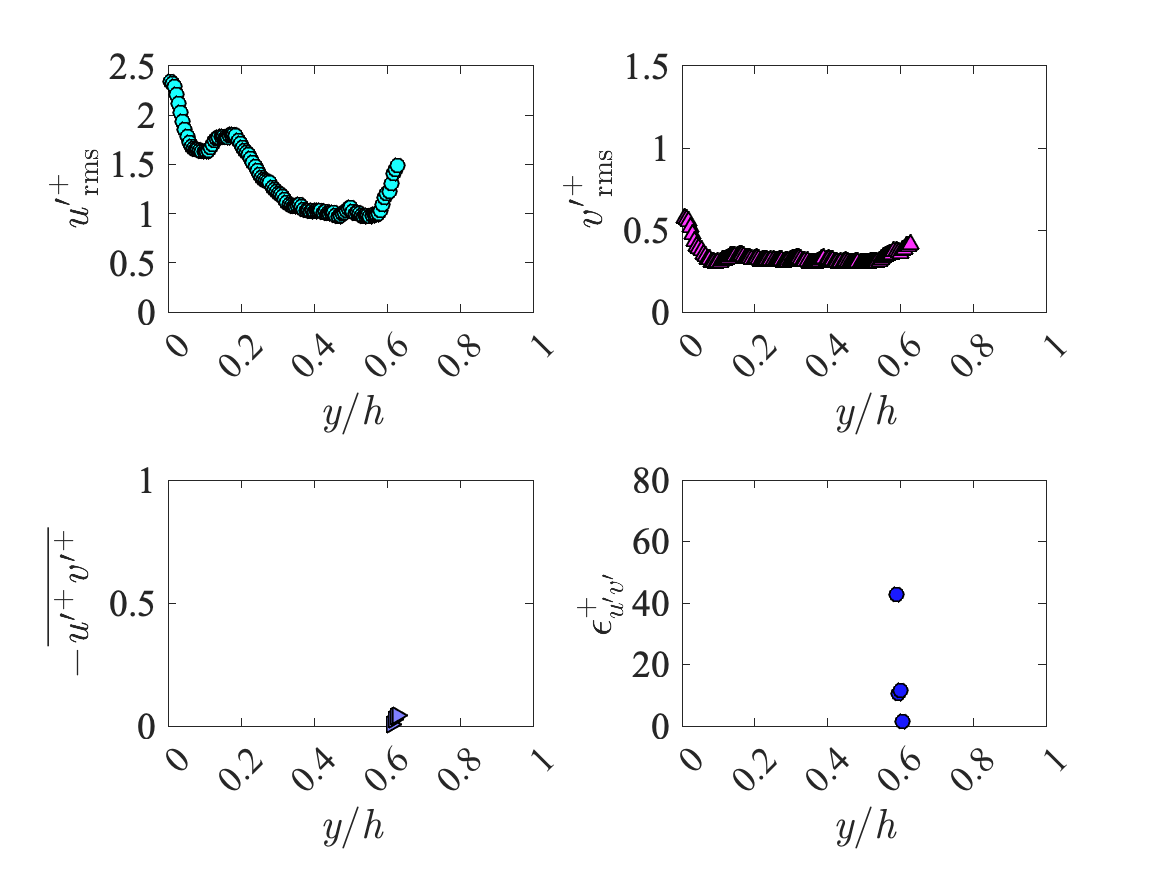
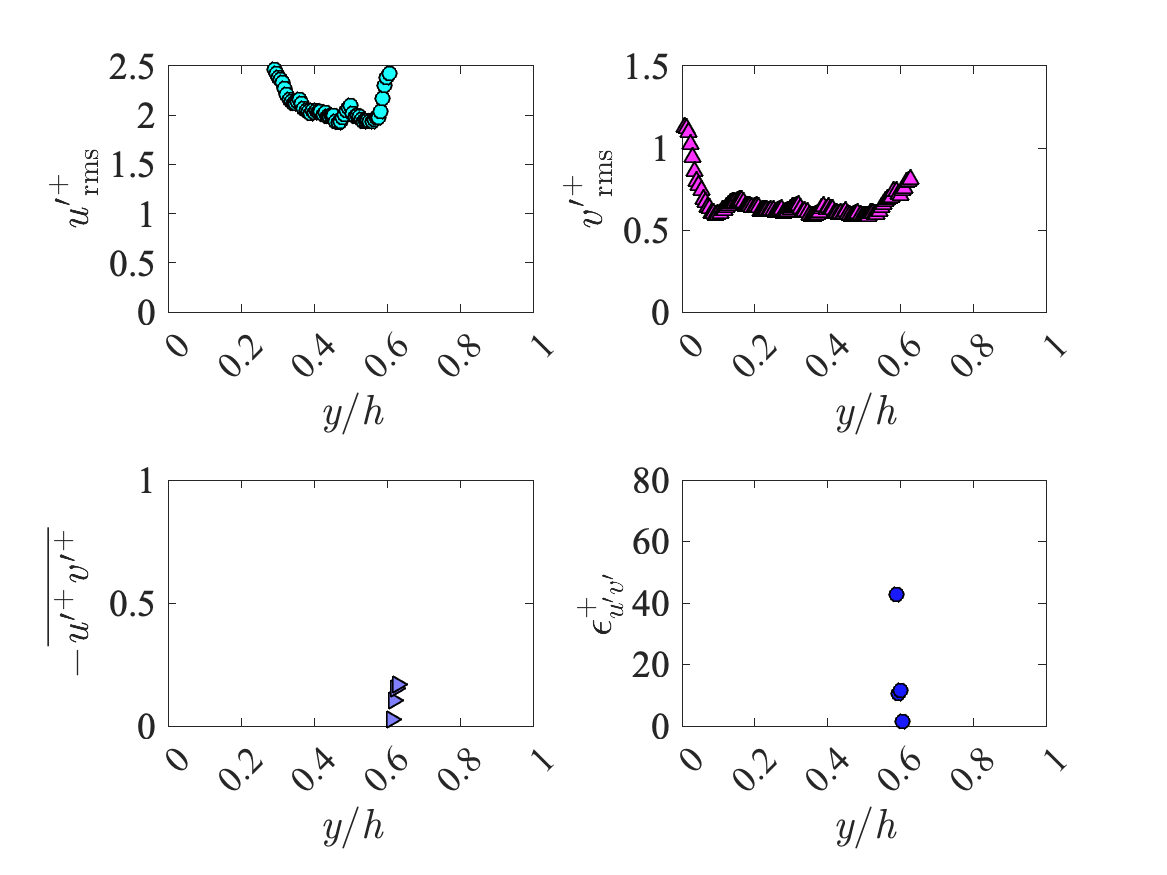
solutionyouni

diff --git a/itoi/PIV_assignment/solution_algo.m b/itoi/PIV_assignment/solution_algo.m
@@ -11,8 +11,10 @@ tic;                                % start of measuring the elapsed time
 numfiles = 500;                     % total number of file                      
 m        = 127;                      % number of x direction
 n        = 108;                      % number of y direction
-ub       = 0.335;                   % bulk velocity [m/s]
+ub       = 0.335;                    % bulk velocity [m/s]
+% 補正前の壁面せん断応力                  
 % tauw     = 0.23;
+
 % excelから算出した補正後の壁面せん断応力
 tauw     = 0.095331852;                   % wall shear stress [N/m^2]
 ro       = 997.05;                  % density [kg/m^3]
@@ -132,7 +134,7 @@ for k =0:numfiles-1
 	elseif k<10000 
 	 file_name = sprintf('velocity_32px.6vayg6cd.00%d.dat',k);
     end
-    myfilename = sprintf('/Volumes/HDCZ-UT/itoi_PIV/water/water_test.6uvaasgh/80ppm_experiment.6vaxq7zy/aelocity/%s',file_name);
+    myfilename = sprintf('/Volumes/HDCZ-UT/itoi_PIV/water/water_test.6uvaasgh/80ppm_experiment.6vaxq7zy/velocity/%s',file_name);
     mydata     = importdata(myfilename);
     u(:,:,1)   = rot90(reshape(mydata.data(:,1),[m n]));            % u
     u(:,:,2)   = -rot90(reshape(mydata.data(:,2),[m n]));           % v

diff --git a/itoi/PIV_assignment/water_algo.m b/itoi/PIV_assignment/water_algo.m
@@ -9,8 +9,10 @@ tic;                                % start of measuring the elapsed time
 numfiles = 500;                     % total number of file                      
 m        = 127;                      % number of x direction
 n        = 108;                      % number of y direction
-ub       = 0.335;                   % bulk velocity [m/s]
-% tauw     = 0.23;                   % wall shear stress [N/m^2]
+% 補正前の壁面せん断応力                  
+% tauw     = 0.5132;
+
+% excelから算出した補正後の壁面せん断応力                   
 tauw     = 0.374;                   % wall shear stress [N/m^2]
 ro       = 997.05;                  % density [kg/m^3]
 ut       = sqrt(tauw/ro);           % friction velocity [m/s] 
